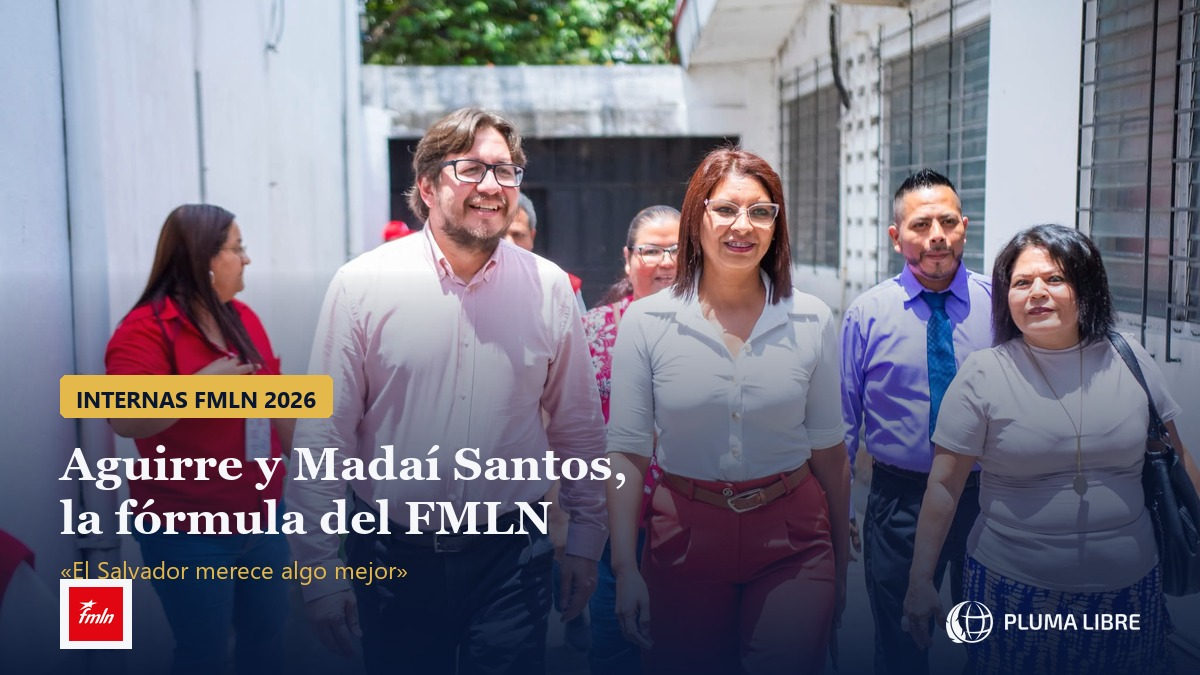
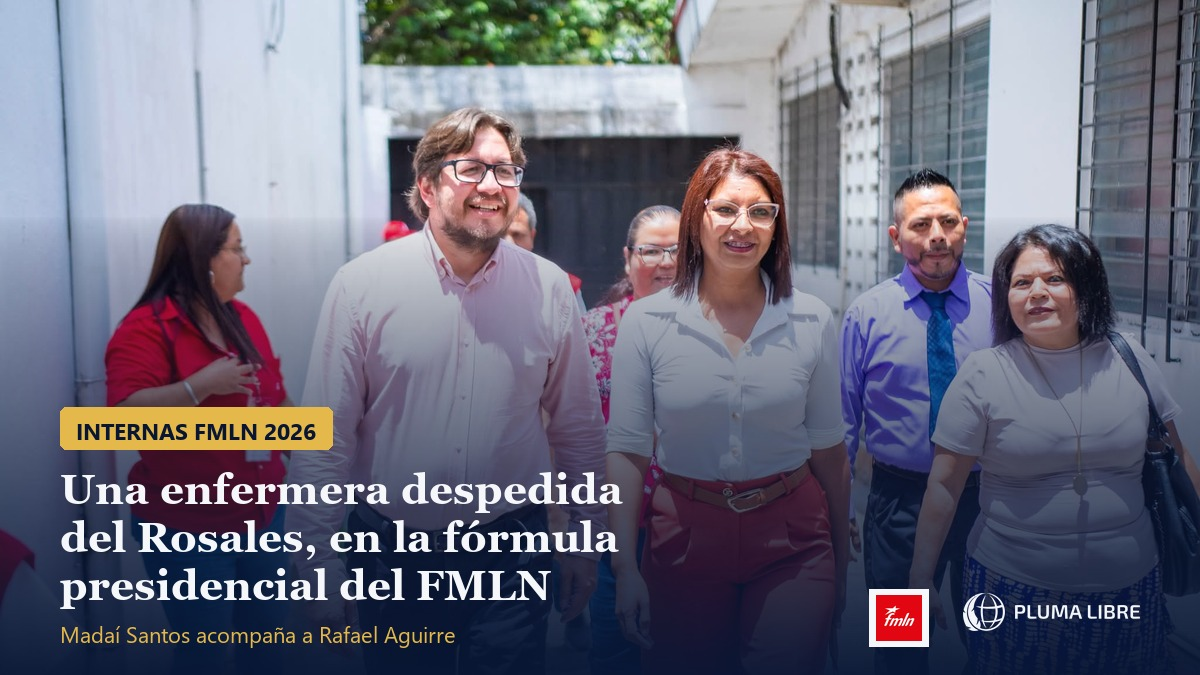
Nota Aguirre: reenfocar al angulo fuerte — enfermera despedida del Hospital Rosales en la formula del FMLN
Titular, portada y cuerpo destacan que Madai Santos es una de las despedidas en los
despidos masivos del 23-dic (aprox 1,500 empleados; +900 enfermeras llevadas a firmar
retiro 'voluntario'; embarazadas y personal en licencia entre los afectados).

Claude-Session: https://claude.ai/code/session_019BnRNXvM4hMaA9L6fzvqte

diff --git a/articulos/rafael-aguirre-vota-internas-fmln-2026.html b/articulos/rafael-aguirre-vota-internas-fmln-2026.html
@@ -1,4 +1,4 @@
-<!DOCTYPE html><html lang="es"><head><meta charset="UTF-8"><meta name="viewport" content="width=device-width,initial-scale=1.0"><title>Rafael Aguirre, candidato presidencial del FMLN, vota en las internas: «El Salvador merece algo mejor» — Pluma Libre</title><meta name="description" content="El candidato presidencial del FMLN, Rafael Aguirre, ejerció su voto este domingo en las elecciones internas del partido junto a su compañera de fórmula, Madaí Santos, enfermera despedida del Hospital Rosales."><meta name="theme-color" content="#081A41"><link rel="canonical" href="https://plumalibre.press/articulos/rafael-aguirre-vota-internas-fmln-2026.html"><meta property="og:type" content="article"><meta property="og:title" content="Rafael Aguirre, candidato presidencial del FMLN, vota en las internas: «El Salvador merece algo mejor»"><meta property="og:description" content="Rafael Aguirre, candidato presidencial del FMLN, votó este domingo en las internas junto a su compañera de fórmula, Madaí Santos."><meta property="og:image" content="https://plumalibre.press/assets/nota-aguirre-cover.jpg"><meta property="og:site_name" content="Pluma Libre"><meta property="article:published_time" content="2026-07-25"><script type="application/ld+json">{"@context":"https://schema.org","@type":"NewsArticle","headline":"Rafael Aguirre, candidato presidencial del FMLN, vota en las internas: «El Salvador merece algo mejor»","datePublished":"2026-07-25","author":{"@type":"Organization","name":"Pluma Libre"},"publisher":{"@type":"Organization","name":"Pluma Libre","logo":{"@type":"ImageObject","url":"https://plumalibre.press/assets/logo-simbolo.png"}}}</script><script async src="https://www.googletagmanager.com/gtag/js?id=G-TZRTJLP5KT"></script><script>window.dataLayer=window.dataLayer||[];function gtag(){dataLayer.push(arguments);}gtag("js",new Date());gtag("config","G-TZRTJLP5KT");</script><link rel="icon" href="../assets/favicon.ico" sizes="any"><link rel="icon" type="image/png" sizes="32x32" href="../assets/favicon-32x32.png"><link rel="icon" type="image/png" sizes="192x192" href="../assets/favicon-192x192.png"><link rel="apple-touch-icon" href="../assets/apple-touch-icon.png"><link rel="manifest" href="/manifest.webmanifest"><meta name="apple-mobile-web-app-capable" content="yes"><meta name="apple-mobile-web-app-status-bar-style" content="black-translucent"><meta name="apple-mobile-web-app-title" content="Pluma Libre"><meta name="mobile-web-app-capable" content="yes"><link rel="preconnect" href="https://fonts.googleapis.com"><link rel="preconnect" href="https://fonts.gstatic.com" crossorigin><link href="https://fonts.googleapis.com/css2?family=Newsreader:opsz,wght@6..72,400;6..72,600;6..72,700&family=Outfit:wght@400;500;600;700&display=swap" rel="stylesheet"><link rel="stylesheet" href="../style.css"></head><body class="article-page"><div class="top-bar"><div class="wrap"><span id="fecha"></span><a href="https://www.facebook.com/plumalibre.press/" target="_blank" rel="noopener" aria-label="Facebook"><svg width="14" height="14" fill="currentColor" viewBox="0 0 24 24"><path d="M24 12.073c0-6.627-5.373-12-12-12s-12 5.373-12 12c0 5.99 4.388 10.954 10.125 11.854v-8.385H7.078v-3.47h3.047V9.43c0-3.007 1.792-4.669 4.533-4.669 1.312 0 2.686.235 2.686.235v2.953H15.83c-1.491 0-1.956.925-1.956 1.874v2.25h3.328l-.532 3.47h-2.796v8.385C19.612 23.027 24 18.062 24 12.073z"/></svg></a></div></div><header class="header"><div class="wrap"><a href="../index.html" class="logo"><img src="../assets/logo-simbolo.png" alt="Pluma Libre" class="logo-simbolo" width="40" height="40"><div class="logo-text"><h1><img src="../assets/logo-wordmark.png" alt="PLUMA LIBRE" class="logo-wordmark"></h1></div></a><button class="menu-btn" id="menuBtn" aria-label="Menú"><span></span><span></span><span></span></button><nav class="nav" id="nav"><ul><li><a href="../index.html">Inicio</a></li><li><a href="../secciones/politico.html">Política</a></li><li><a href="../secciones/economico.html">Economía</a></li><li><a href="../secciones/deportivo.html">Deportes</a></li><li><a href="../secciones/social.html">Social</a></li><li><a href="../secciones/religioso.html">Religión</a></li><li><a href="../secciones/cultural.html">Cultura</a></li><li><a href="../secciones/internacional.html">Internacional</a></li><li><a href="../sobre-nosotros.html">Nosotros</a></li></ul></nav></div></header><main><div class="wrap"><div class="article-header"><span class="badge badge-brand">Política</span><h1>Rafael Aguirre, candidato presidencial del FMLN, vota en las internas: «El Salvador merece algo mejor»</h1><div class="article-meta"><strong>Por Pluma Libre</strong> · 25 de julio, 2026 · Sonsonate</div></div><figure class="article-img"><img src="../assets/nota-aguirre-cover.jpg" alt="Rafael Aguirre y Madaí Santos, fórmula presidencial del FMLN" loading="eager"><figcaption>Rafael Aguirre y su compañera de fórmula, Madaí Santos, durante la jornada de internas. / Foto: cortesía del candidato</figcaption></figure><div class="article-body"><p>El candidato presidencial del FMLN, <strong>Rafael Aguirre</strong>, ejerció su voto este domingo en las elecciones internas del partido, en las que la militancia definió sus candidaturas de cara a los comicios generales de 2027.</p>
+<!DOCTYPE html><html lang="es"><head><meta charset="UTF-8"><meta name="viewport" content="width=device-width,initial-scale=1.0"><title>El FMLN lleva de fórmula presidencial a una enfermera despedida del Hospital Rosales — Pluma Libre</title><meta name="description" content="Madaí Santos, una de las enfermeras despedidas del Hospital Rosales en diciembre, es la compañera de fórmula del candidato presidencial del FMLN, Rafael Aguirre. Ambos votaron este domingo en las internas del partido."><meta name="theme-color" content="#081A41"><link rel="canonical" href="https://plumalibre.press/articulos/rafael-aguirre-vota-internas-fmln-2026.html"><meta property="og:type" content="article"><meta property="og:title" content="El FMLN lleva de fórmula presidencial a una enfermera despedida del Hospital Rosales"><meta property="og:description" content="Madaí Santos, enfermera despedida del Hospital Rosales, acompaña como fórmula al candidato presidencial del FMLN, Rafael Aguirre. Ambos votaron este domingo en las internas."><meta property="og:image" content="https://plumalibre.press/assets/nota-aguirre-cover.jpg"><meta property="og:site_name" content="Pluma Libre"><meta property="article:published_time" content="2026-07-25"><script type="application/ld+json">{"@context":"https://schema.org","@type":"NewsArticle","headline":"El FMLN lleva de fórmula presidencial a una enfermera despedida del Hospital Rosales","datePublished":"2026-07-25","author":{"@type":"Organization","name":"Pluma Libre"},"publisher":{"@type":"Organization","name":"Pluma Libre","logo":{"@type":"ImageObject","url":"https://plumalibre.press/assets/logo-simbolo.png"}}}</script><script async src="https://www.googletagmanager.com/gtag/js?id=G-TZRTJLP5KT"></script><script>window.dataLayer=window.dataLayer||[];function gtag(){dataLayer.push(arguments);}gtag("js",new Date());gtag("config","G-TZRTJLP5KT");</script><link rel="icon" href="../assets/favicon.ico" sizes="any"><link rel="icon" type="image/png" sizes="32x32" href="../assets/favicon-32x32.png"><link rel="icon" type="image/png" sizes="192x192" href="../assets/favicon-192x192.png"><link rel="apple-touch-icon" href="../assets/apple-touch-icon.png"><link rel="manifest" href="/manifest.webmanifest"><meta name="apple-mobile-web-app-capable" content="yes"><meta name="apple-mobile-web-app-status-bar-style" content="black-translucent"><meta name="apple-mobile-web-app-title" content="Pluma Libre"><meta name="mobile-web-app-capable" content="yes"><link rel="preconnect" href="https://fonts.googleapis.com"><link rel="preconnect" href="https://fonts.gstatic.com" crossorigin><link href="https://fonts.googleapis.com/css2?family=Newsreader:opsz,wght@6..72,400;6..72,600;6..72,700&family=Outfit:wght@400;500;600;700&display=swap" rel="stylesheet"><link rel="stylesheet" href="../style.css"></head><body class="article-page"><div class="top-bar"><div class="wrap"><span id="fecha"></span><a href="https://www.facebook.com/plumalibre.press/" target="_blank" rel="noopener" aria-label="Facebook"><svg width="14" height="14" fill="currentColor" viewBox="0 0 24 24"><path d="M24 12.073c0-6.627-5.373-12-12-12s-12 5.373-12 12c0 5.99 4.388 10.954 10.125 11.854v-8.385H7.078v-3.47h3.047V9.43c0-3.007 1.792-4.669 4.533-4.669 1.312 0 2.686.235 2.686.235v2.953H15.83c-1.491 0-1.956.925-1.956 1.874v2.25h3.328l-.532 3.47h-2.796v8.385C19.612 23.027 24 18.062 24 12.073z"/></svg></a></div></div><header class="header"><div class="wrap"><a href="../index.html" class="logo"><img src="../assets/logo-simbolo.png" alt="Pluma Libre" class="logo-simbolo" width="40" height="40"><div class="logo-text"><h1><img src="../assets/logo-wordmark.png" alt="PLUMA LIBRE" class="logo-wordmark"></h1></div></a><button class="menu-btn" id="menuBtn" aria-label="Menú"><span></span><span></span><span></span></button><nav class="nav" id="nav"><ul><li><a href="../index.html">Inicio</a></li><li><a href="../secciones/politico.html">Política</a></li><li><a href="../secciones/economico.html">Economía</a></li><li><a href="../secciones/deportivo.html">Deportes</a></li><li><a href="../secciones/social.html">Social</a></li><li><a href="../secciones/religioso.html">Religión</a></li><li><a href="../secciones/cultural.html">Cultura</a></li><li><a href="../secciones/internacional.html">Internacional</a></li><li><a href="../sobre-nosotros.html">Nosotros</a></li></ul></nav></div></header><main><div class="wrap"><div class="article-header"><span class="badge badge-brand">Política</span><h1>El FMLN lleva de fórmula presidencial a una enfermera despedida del Hospital Rosales</h1><div class="article-meta"><strong>Por Pluma Libre</strong> · 25 de julio, 2026 · Sonsonate</div></div><figure class="article-img"><img src="../assets/nota-aguirre-cover.jpg" alt="Rafael Aguirre y Madaí Santos, fórmula presidencial del FMLN" loading="eager"><figcaption>Rafael Aguirre y su compañera de fórmula, Madaí Santos, durante la jornada de internas. / Foto: cortesía del candidato</figcaption></figure><div class="article-body"><p>El FMLN llevará como fórmula presidencial a <strong>Madaí Santos</strong>, una de las enfermeras despedidas del <strong>Hospital Rosales</strong> en la ola de despidos masivos de diciembre. Santos acompaña al candidato presidencial del partido, <strong>Rafael Aguirre</strong>, con quien ejerció su voto este domingo en las elecciones internas.</p>
 
 <p>"Hoy ejercimos nuestro derecho al voto en las elecciones internas del FMLN, un paso importante dentro del proceso democrático para la definición de las candidaturas", escribió al compartir imágenes de la jornada.</p>
 
@@ -6,7 +6,15 @@
 
 <h2>"Construir propuestas desde el territorio"</h2>
 
-<p>Aguirre acudió a votar acompañado de su compañera de fórmula, la licenciada <strong>Madaí Santos</strong>, enfermera despedida del Hospital Rosales. De ella dijo que comparten "la convicción de trabajar por un país más justo".</p>
+<h2>Quién es Madaí Santos</h2>
+
+<p>Santos es enfermera y fue despedida del Hospital Rosales. Su salida ocurrió en el marco de los <strong>despidos masivos del 23 de diciembre</strong>, cuando el Ministerio de Salud notificó la eliminación de plazas a alrededor de <strong>1,500 empleados</strong> del principal hospital público del país: médicos, enfermeras, personal administrativo, técnico y de limpieza, muchos con más de 30 años de servicio.</p>
+
+<p>Según denunciaron los trabajadores en su momento, <strong>más de 900 enfermeras</strong> fueron llevadas a firmar acuerdos de retiro "voluntario", ya que de lo contrario no recibirían indemnización. Entre los despedidos había mujeres embarazadas y personal en licencia por maternidad.</p>
+
+<p>El Colegio Médico exigió entonces explicaciones por los despidos, y organizaciones universitarias pidieron el reinstalo del personal, advirtiendo sobre el impacto en la atención sanitaria.</p>
+
+<p>De su compañera de fórmula, Aguirre dijo que comparten "la convicción de trabajar por un país más justo".</p>
 
 <p>"Reafirmamos nuestro compromiso de escuchar a la gente y construir propuestas desde el territorio con la sociedad civil de la mano", expresó.</p>
 

diff --git a/index.html b/index.html
@@ -96,7 +96,7 @@
     <section class="home-hero">
       <div class="wrap">
         <div class="home-hero-grid">
-          <article class="home-hero-principal"><div class="img"><img src="assets/nota-aguirre-cover.jpg" alt="" loading="eager"></div><div class="body"><span class="kicker">Política</span><h2><a href="articulos/rafael-aguirre-vota-internas-fmln-2026.html">Rafael Aguirre, candidato presidencial del FMLN, vota en las internas: «El Salvador merece algo mejor»</a></h2><p class="meta">Por Pluma Libre · 26 de julio, 2026</p></div></article>
+          <article class="home-hero-principal"><div class="img"><img src="assets/nota-aguirre-cover.jpg" alt="" loading="eager"></div><div class="body"><span class="kicker">Política</span><h2><a href="articulos/rafael-aguirre-vota-internas-fmln-2026.html">El FMLN lleva de fórmula presidencial a una enfermera despedida del Hospital Rosales</a></h2><p class="meta">Por Pluma Libre · 26 de julio, 2026</p></div></article>
           <aside class="home-hero-sidebar">
             <article class="home-hero-secondary"><div class="thumb"><img src="assets/duelo-mariano-rolando.jpg" alt="" loading="lazy"></div><div class="info"><span class="kicker">Social</span><h3><a href="articulos/pluma-libre-despide-a-mariano-galan-cronista-incan.html">Pluma Libre despide a Mariano Galán, cronista incansable y defensor de la libertad de prensa</a></h3></div></article>
           </aside>
@@ -121,7 +121,7 @@
         <h2>Últimas Noticias</h2>
       </div>
       <div class="news-grid">
-        <article class="card"><div class="thumb"><img src="assets/nota-aguirre-cover.jpg" alt="" loading="lazy"></div><div class="info"><span class="badge-sm">Política</span><h3><a href="articulos/rafael-aguirre-vota-internas-fmln-2026.html">Rafael Aguirre, candidato presidencial del FMLN, vota en las internas: «El Salvador merece algo mejor»</a></h3><p class="meta">26 de julio, 2026</p></div></article>
+        <article class="card"><div class="thumb"><img src="assets/nota-aguirre-cover.jpg" alt="" loading="lazy"></div><div class="info"><span class="badge-sm">Política</span><h3><a href="articulos/rafael-aguirre-vota-internas-fmln-2026.html">El FMLN lleva de fórmula presidencial a una enfermera despedida del Hospital Rosales</a></h3><p class="meta">26 de julio, 2026</p></div></article>
         <article class="card"><div class="thumb"><img src="assets/nota-kompagil-declaraciones.jpg" alt="" loading="lazy"></div><div class="info"><span class="badge-sm">Política</span><h3><a href="articulos/kompagil-declaraciones-jornada-internas-fmln.html">Kompagil da declaraciones a la prensa en medio de la jornada de internas del FMLN</a></h3><p class="meta">26 de julio, 2026</p></div></article>
         <article class="card"><div class="thumb"><img src="assets/nota-iraheta-campana-austera.jpg" alt="" loading="lazy"></div><div class="info"><span class="badge-sm">Política</span><h3><a href="articulos/maytee-iraheta-campana-austera-arena-2027.html">Mayteé Iraheta anuncia una campaña austera: «Las mujeres sabemos hacer de un dólar, maravillas»</a></h3><p class="meta">26 de julio, 2026</p></div></article>
         <article class="card"><div class="thumb"><img src="assets/nota-internas-generales-cover.jpg" alt="" loading="lazy"></div><div class="info"><span class="badge-sm">Política</span><h3><a href="articulos/internas-partidos-26-julio-2026-rumbo-2027.html">Seis partidos definen hoy sus candidatos rumbo a 2027; el plazo vence el miércoles</a></h3><p class="meta">26 de julio, 2026</p></div></article>

diff --git a/secciones/politico.html b/secciones/politico.html
@@ -41,8 +41,8 @@
   <main><div class="wrap"><div class="section-head"><h2>Política</h2></div>
     <article class="card-lg">
       <div class="img-wrap"><img src="../assets/nota-aguirre-cover.jpg" alt="Rafael Aguirre, candidato presidencial del FMLN" loading="lazy"></div>
-      <h3><a href="../articulos/rafael-aguirre-vota-internas-fmln-2026.html">Rafael Aguirre, candidato presidencial del FMLN, vota en las internas: «El Salvador merece algo mejor»</a></h3>
-      <p class="excerpt">El candidato presidencial del FMLN ejerció su voto este domingo acompañado de su compañera de fórmula, Madaí Santos, enfermera despedida del Hospital Rosales. «Reafirmamos nuestro compromiso de escuchar a la gente y construir propuestas desde el territorio», expresó.</p>
+      <h3><a href="../articulos/rafael-aguirre-vota-internas-fmln-2026.html">El FMLN lleva de fórmula presidencial a una enfermera despedida del Hospital Rosales</a></h3>
+      <p class="excerpt">Madaí Santos, una de las cerca de 1,500 personas despedidas del Hospital Rosales en diciembre, es la compañera de fórmula del candidato presidencial del FMLN, Rafael Aguirre. Ambos votaron este domingo en las internas del partido.</p>
       <p class="meta">Por Pluma Libre · 26 de julio, 2026</p>
     </article>
     <article class="card-lg">
